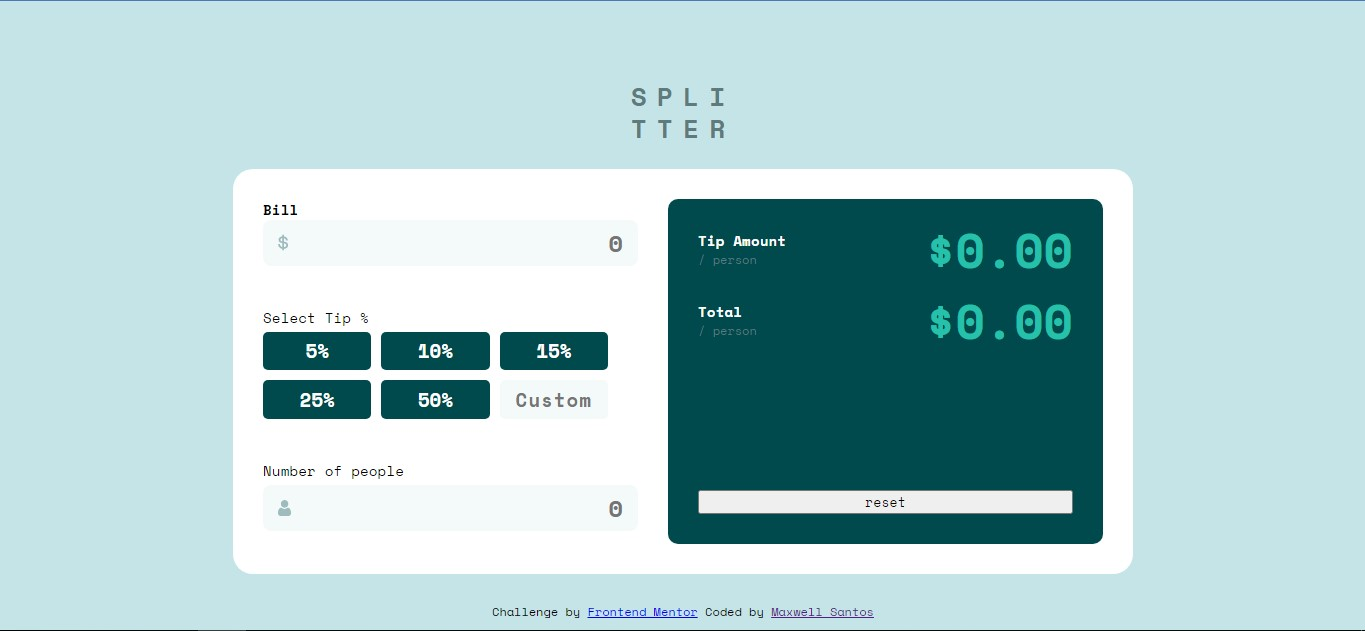
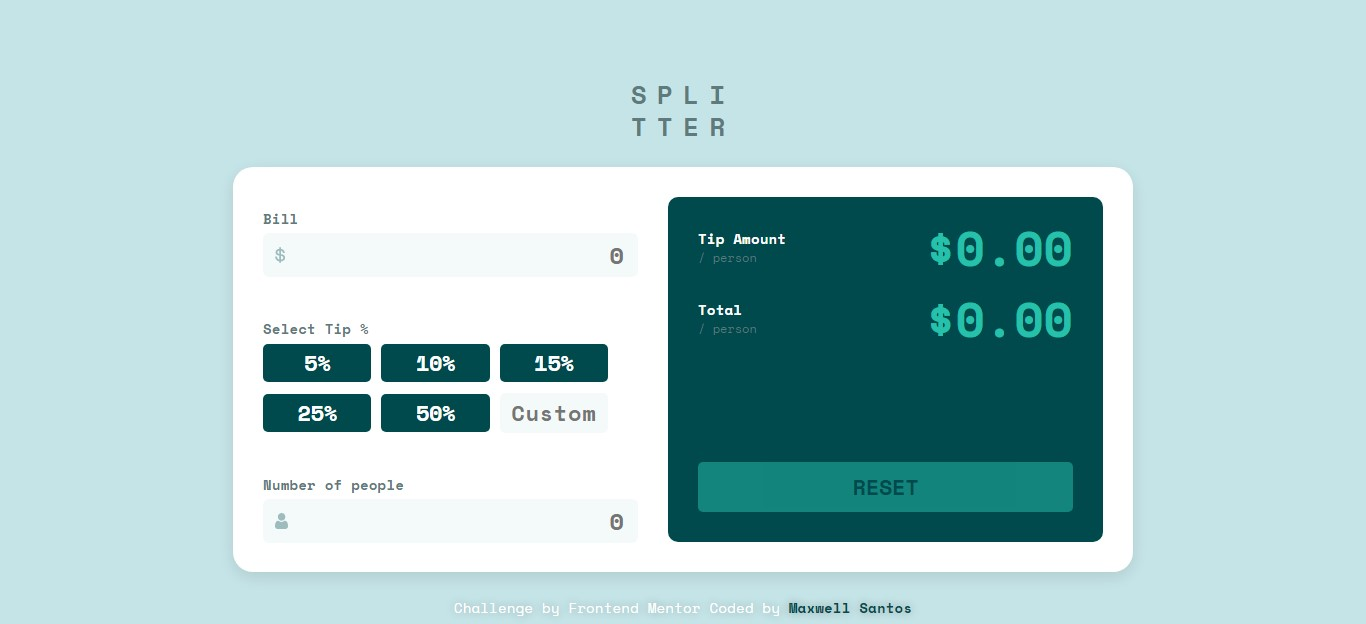
ajustes e README

diff --git a/src/script/index.js b/src/script/index.js
@@ -12,7 +12,7 @@ window.onload = () => {
 
   setTimeout(() => {
     price.focus();
-    alert('Caso queira uma porcentagem da sua preferência, basta digitar o valor na área "Custom" e clicar Enter');
+    alert('If you want a percentage of your preference, just type the value in the "Custom" area and click Enter');
 
   }, 2000)
 }
@@ -49,24 +49,24 @@ function OnClickEnter(event) {
     //if the required fields are not filled, do this
     if (price.value == '' && persons.value == '' && custom_porcent.value == '') {
 
-      alert('Preencha os campos')
+      alert('fill in the fields')
       controlBorders();
 
 
     } else if(price.value == '' && persons.value !== '' && custom_porcent.value == ''){
-      alert('Preencha o campo Bill')
+      alert('fill in the bill field')
       price.focus();
 
 
     } else if (price.value !== '' && persons.value == '' && custom_porcent.value == '') {
-      alert('Preencha o campo Number of People')
+      alert('Fill in the Number of People field')
       persons.focus();
       
       //se não, se os campos obrigatórios estiverem preenchidos mas o usuário não definiu uma porcentagem, faça isso
       //if not, if the required fields are filled in but the user has not set a percentage, do so
     } else if (price.value !== '' && persons.value !== '' && custom_porcent.value == '') {
 
-      alert('Escolha uma porcentagem, ou defina um valor da sua preferência')
+      alert('Choose a percentage, or set a value of your own')
       custom_porcent.focus()
 
 
@@ -74,7 +74,7 @@ function OnClickEnter(event) {
 
       if (custom_porcent.value > 100) {//o valor máximo da porcentagem e 100%
 
-        alert('O valor máximo é 100')
+        alert('the maximum value is 100')
 
         custom_porcent.value = ''
         custom_porcent.focus()

diff --git a/index.html b/index.html
@@ -71,7 +71,7 @@
 
         <div class="tip-amount-content">
           <div>
-            <h3>tip amount</h3>
+            <p class="title">tip amount</p>
             <p>/ person</p>
           </div>
 
@@ -83,7 +83,7 @@
 
         <div class="total-content">
           <div>
-            <h3>total</h3>
+            <p class="title">total</p>
             <p>/ person</p>
           </div>
 

diff --git a/src/style/index.css b/src/style/index.css
@@ -240,10 +240,11 @@ form {
   position: relative;
 }
 
-#count-content h3 {
+#count-content .title {
   font-size: .6em;
   font-weight: 700;
   text-transform: capitalize;
+  color: var(--white);
 }
 
 #count-content p {

diff --git a/README.md b/README.md
@@ -1,49 +1,71 @@
-# Frontend Mentor - Tip calculator app
+## Table of contents
 
-## Building your project
+- [Overview](#overview)
+  - [The challenge](#the-challenge)
+  - [Screenshot](#screenshot)
+  - [Links](#links)
+- [My process](#my-process)
+  - [Built with](#built-with)
+  - [What I learned](#what-i-learned)
+  - [Continued development](#continued-development)
+  - [Useful resources](#useful-resources)
+- [Author](#author)
+- [Acknowledgments](#acknowledgments)
 
-Feel free to use any workflow that you feel comfortable with. Below is a suggested process, but do not feel like you need to follow these steps:
+**Note: Delete this note and update the table of contents based on what sections you keep.**
 
-1. Initialize your project as a public repository on [GitHub](https://github.com/). Creating a repo will make it easier to share your code with the community if you need help. If you're not sure how to do this, [have a read-through of this Try Git resource](https://try.github.io/).
-2. Configure your repository to publish your code to a web address. This will also be useful if you need some help during a challenge as you can share the URL for your project with your repo URL. There are a number of ways to do this, and we provide some recommendations below.
-3. Look through the designs to start planning out how you'll tackle the project. This step is crucial to help you think ahead for CSS classes to create reusable styles.
-4. Before adding any styles, structure your content with HTML. Writing your HTML first can help focus your attention on creating well-structured content.
-5. Write out the base styles for your project, including general content styles, such as `font-family` and `font-size`.
-6. Start adding styles to the top of the page and work down. Only move on to the next section once you're happy you've completed the area you're working on.
+## Overview
+### Screenshot
 
-## Deploying your project
+![Screenshot](./src/images/screenshot.jpg)
+- Mobile design
+![Screenshot-mobile](./src/images/screenshot-mobile.jpg)
+### Links
 
-As mentioned above, there are many ways to host your project for free. Our recommend hosts are:
+- Solution URL: [Add solution URL here](https://www.frontendmentor.io/solutions/tip-calculator-r1QVkyWSc)
+- Live Site URL: [Add live site URL here](https://calculador-de-gorjetas.vercel.app/)
 
-- [GitHub Pages](https://pages.github.com/)
-- [Vercel](https://vercel.com/)
-- [Netlify](https://www.netlify.com/)
+## Meu processo
 
-You can host your site using one of these solutions or any of our other trusted providers. [Read more about our recommended and trusted hosts](https://medium.com/frontend-mentor/frontend-mentor-trusted-hosting-providers-bf000dfebe).
+### Construído com
 
-## Create a custom `README.md`
+- Semantic HTML5 markup
+- CSS custom properties
+- Flexbox
+- CSS Grid
+- Responsiveness
+- Variables for colors
+- Gsap which is animation when entering the site
 
-We strongly recommend overwriting this `README.md` with a custom one. We've provided a template inside the [`README-template.md`](./README-template.md) file in this starter code.
+### O que eu aprendi
 
-The template provides a guide for what to add. A custom `README` will help you explain your project and reflect on your learnings. Please feel free to edit our template as much as you like.
+<p>Esse atributo js serve para definir uma quantidade de character máximo ao input do type number, nesse caso eu coloquei 3, pois esse input recebe um valor de porcentagem digitado pelo usuário, como no máximo é 100%, o usuário fica limitado a digitar 3 números e no index.js verifica se ele é maior ou menos que 100 </p>
 
-Once you've added your information to the template, delete this file and rename the `README-template.md` file to `README.md`. That will make it show up as your repository's README file.
+```html
 
-## Submitting your solution
+<input type="number" id="custom-porcent" class="porcent-item" value="" placeholder="custom" onkeypress="OnClickEnter(event)" oninput="javascript: if (this.value.length > this.maxLength) this.value = this.value.slice(0, this.maxLength);" maxlength="3">
+```
+<p>Aqui é uma das células de porcetagem pré definido</p><br>
+<p>Essa função é chamada para cada porcentagem pré definidada, e tem como parâmetro o valor da porcentagem desejado para fazer o calculo</p>
 
-Submit your solution on the platform for the rest of the community to see. Follow our ["Complete guide to submitting solutions"](https://medium.com/frontend-mentor/a-complete-guide-to-submitting-solutions-on-frontend-mentor-ac6384162248) for tips on how to do this.
+```html
+<button type="button" class="porcent-item" name="item" onclick="calcPercentage('5')"> 5% </button>
+```
+```css
+.proud-of-this-css {
+  color: papayawhip;
+}
+```
+```js
+const proudOfThisFunc = () => {
+  console.log('🎉')
+}
+```
+## Autor
 
-Remember, if you're looking for feedback on your solution, be sure to ask questions when submitting it. The more specific and detailed you are with your questions, the higher the chance you'll get valuable feedback from the community.
+- Frontend Mentor - [@Maxwell-Santos](https://www.frontendmentor.io/profile/Maxwell-Santos)
 
-## Sharing your solution
+## Agradecimentos
 
-There are multiple places you can share your solution:
+Eu gostaria de agradecer minha namorada, ela é programadora também e me ajudou construir o site, ela é um pilar para mim.
 
-1. Share your solution page in the **#finished-projects** channel of the [Slack community](https://www.frontendmentor.io/slack). 
-2. Tweet [@frontendmentor](https://twitter.com/frontendmentor) and mention **@frontendmentor**, including the repo and live URLs in the tweet. We'd love to take a look at what you've built and help share it around.
-3. Share your solution on other social channels like LinkedIn.
-4. Blog about your experience building your project. Writing about your workflow, technical choices, and talking through your code is a brilliant way to reinforce what you've learned. Great platforms to write on are [dev.to](https://dev.to/), [Hashnode](https://hashnode.com/), and [CodeNewbie](https://community.codenewbie.org/).
-
-We provide templates to help you share your solution once you've submitted it on the platform. Please do edit them and include specific questions when you're looking for feedback. 
-
-The more specific you are with your questions the more likely it is that another member of the community will give you feedback.
